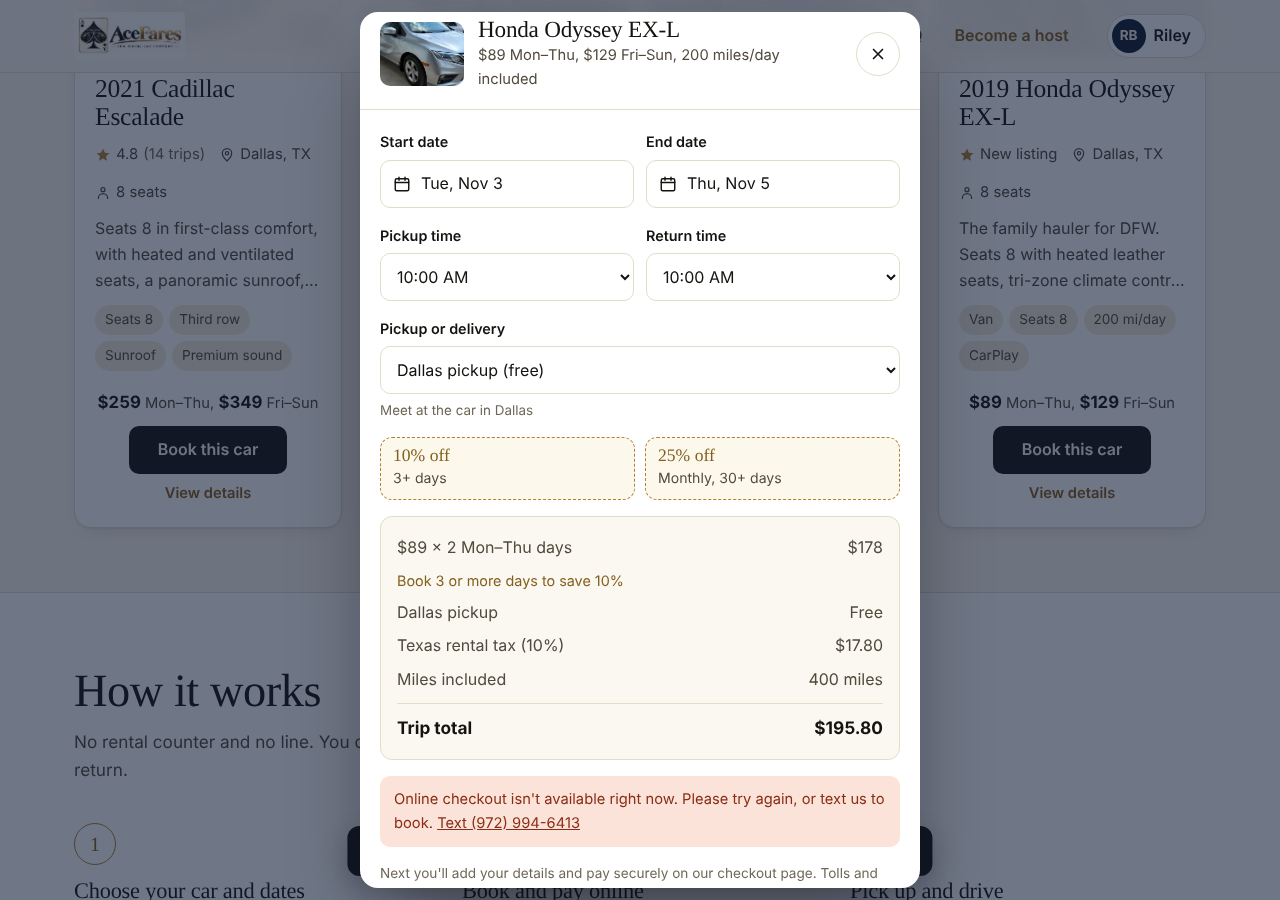
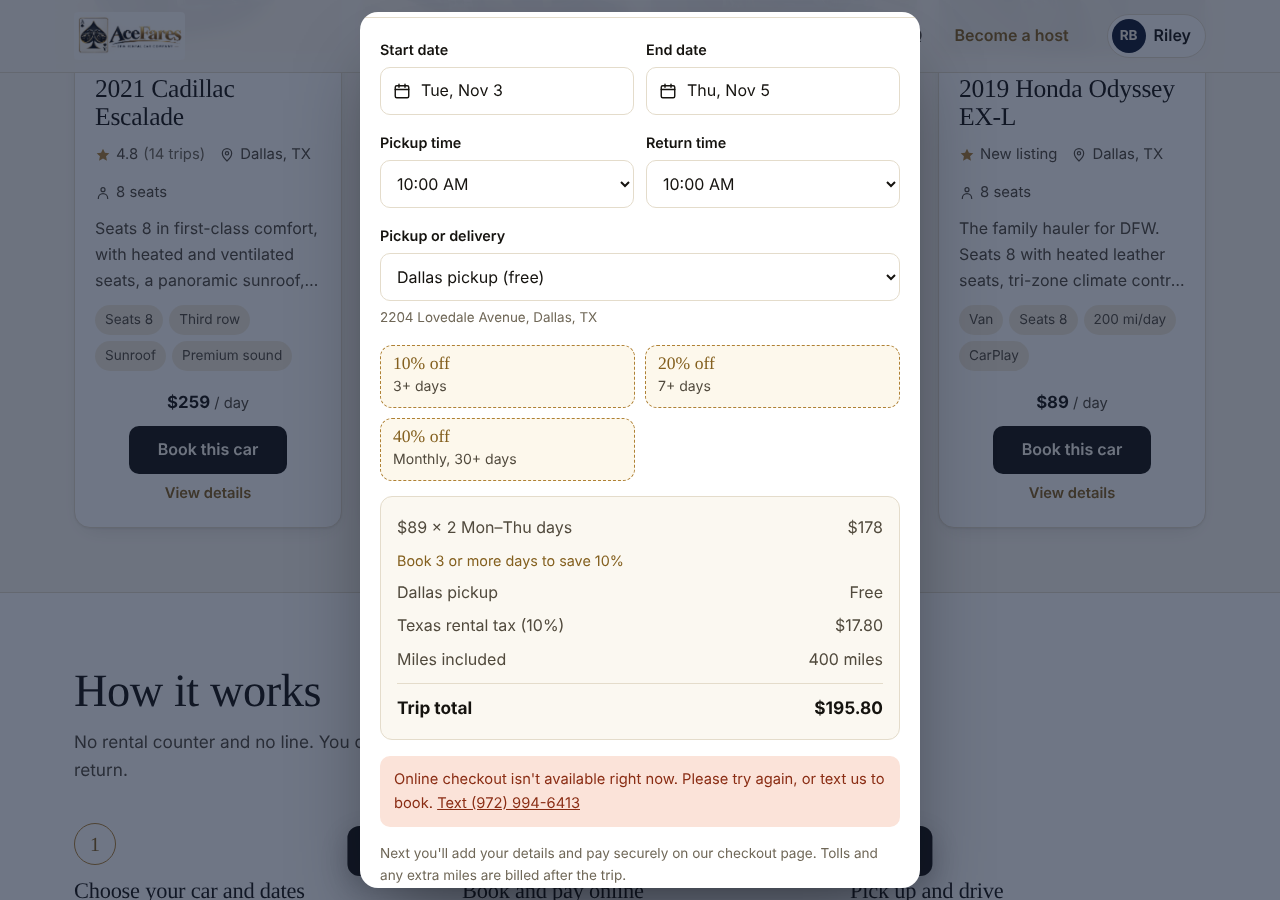
Pickup at 2204 Lovedale Avenue, Dallas; opt out of browser auto-dark mode (color-scheme only light)
Claude-Session: https://claude.ai/code/session_013tTQ2HpLxqD5eMABEcZQQT

diff --git a/public/index.html b/public/index.html
@@ -3,12 +3,13 @@
 <head>
 <meta charset="utf-8">
 <meta name="viewport" content="width=device-width, initial-scale=1">
+<meta name="color-scheme" content="only light">
 <title>Ace Fares Rentals</title>
-<meta name="description" content="Rent a Cadillac Escalade, Cadillac SRX, BMW 650i convertible or Honda Odyssey van direct from the owner in Dallas, Texas. Pickup in McKinney or delivery across DFW.">
+<meta name="description" content="Rent a Cadillac Escalade, Cadillac SRX, BMW 650i convertible or Honda Odyssey van direct from the owner in Dallas, Texas. Pickup in Dallas or delivery across DFW.">
 <meta property="og:type" content="website">
 <meta property="og:site_name" content="Ace Fares Rentals">
 <meta property="og:title" content="Ace Fares Rentals: Dallas car rentals direct from the owner">
-<meta property="og:description" content="Cadillac Escalade, Cadillac SRX, BMW 650i convertible and Honda Odyssey. Pickup in McKinney or delivery across DFW.">
+<meta property="og:description" content="Cadillac Escalade, Cadillac SRX, BMW 650i convertible and Honda Odyssey. Pickup in Dallas or delivery across DFW.">
 <meta property="og:url" content="https://acefaresrental.netlify.app/">
 <meta property="og:image" content="https://acefaresrental.netlify.app/images/share.jpg">
 <meta property="og:image:width" content="1200"><meta property="og:image:height" content="630">
@@ -19,6 +20,7 @@
 <link rel="preconnect" href="https://fonts.gstatic.com" crossorigin>
 <link href="https://fonts.googleapis.com/css2?family=DM+Serif+Display&family=Figtree:wght@400;500;600;700&display=swap" rel="stylesheet">
 <style>
+:root{color-scheme:only light}
 :root{
   --ivory:#FBF8F1; --paper:#FFFFFF; --cream:#F3ECDD; --line:#E4DCCB;
   --ink:#15130F; --ink-2:#514A3D; --ink-3:#6F6757;
@@ -583,7 +585,7 @@ dialog::backdrop{background:rgba(15,26,52,.6)}
         <img src="images/hero.webp" srcset="images/hero-sm.webp 1000w, images/hero.webp 2000w" sizes="100vw" alt="Black Cadillac Escalade parked in a Dallas driveway" width="2000" height="1296" fetchpriority="high">
         <div class="banner-inner">
           <h1 id="hero-title">Drive something worth arriving in.</h1>
-          <p class="sub">Cadillacs, a BMW convertible and a Honda Odyssey van, rented straight from a Dallas owner. Pick up in McKinney, or have the car brought to you.</p>
+          <p class="sub">Cadillacs, a BMW convertible and a Honda Odyssey van, rented straight from a Dallas owner. Pick up in Dallas, or have the car brought to you.</p>
           <form class="search" id="search" novalidate>
             <div class="field">
               <label for="s-loc">Where</label>
@@ -665,7 +667,7 @@ dialog::backdrop{background:rgba(15,26,52,.6)}
     <div class="wrap deliv-grid">
       <div>
         <h2 id="deliv-title">Pickup &amp; delivery</h2>
-        <p class="lede">Pick the car up for free at 362 Virginia Parkway in McKinney, or have us bring it to your home, hotel or office, ready to go.</p>
+        <p class="lede">Pick the car up for free at 2204 Lovedale Avenue in Dallas, or have us bring it to your home, hotel or office, ready to go.</p>
         <p class="areas" id="areas"></p>
         <a class="btn btn-line" href="#fleet" style="margin-top:12px">Choose a car</a>
       </div>
@@ -996,7 +998,7 @@ const SITE = {
 
   // Where renters can get the car. fee: number = flat fee, 0 = free, null = "quoted when we confirm"
   locations: [
-    { id:"dallas-pickup",   name:"McKinney pickup",           note:"362 Virginia Parkway, McKinney, TX",             fee:0,    cars:["srx","escalade","bmw","van"] },
+    { id:"dallas-pickup",   name:"Dallas pickup",             note:"2204 Lovedale Avenue, Dallas, TX",             fee:0,    cars:["srx","escalade","bmw","van"] },
     { id:"dallas-delivery", name:"Delivery",                  note:"We bring the car to your address",      fee:100,  cars:["srx","escalade","bmw","van"] },
   ],
   // Discounts on the rental price (not delivery fees). The biggest one that applies is used.

diff --git a/public/admin.html b/public/admin.html
@@ -3,10 +3,12 @@
 <head>
 <meta charset="utf-8">
 <meta name="viewport" content="width=device-width, initial-scale=1">
+<meta name="color-scheme" content="only light">
 <meta name="robots" content="noindex, nofollow">
 <title>Ace Fares Bookings</title>
 <link rel="icon" href="images/logo.png">
 <style>
+:root{color-scheme:only light}
 :root{--ivory:#FBF8F1;--paper:#fff;--cream:#F3ECDD;--line:#E4DCCB;--ink:#15130F;--ink-2:#514A3D;--ink-3:#6F6757;--gold:#AF8135;--gold-bright:#DAA336;--navy:#0F1A34;--ok:#2F6B3A;--bad:#8A2D14}
 *{box-sizing:border-box}
 body{margin:0;background:var(--ivory);color:var(--ink);font:400 15px/1.5 system-ui,-apple-system,"Segoe UI",sans-serif}
@@ -112,7 +114,7 @@ tr.blocked td{background:#F6F2EA;color:var(--ink-2)}
 </main>
 <script>
 const CARS = { escalade: "Cadillac Escalade", srx: "Cadillac SRX", bmw: "BMW 650i Convertible", van: "Honda Odyssey" };
-const PLACES = { "dallas-pickup": "McKinney pickup", "dallas-delivery": "Delivery", "dfw": "DFW Airport" };
+const PLACES = { "dallas-pickup": "Dallas pickup", "dallas-delivery": "Delivery", "dfw": "DFW Airport" };
 const LABEL = { confirmed: "Paid", hold: "In checkout", conflict: "Paid, dates taken: refund", cancelled: "Cancelled", released: "Checkout abandoned", expired: "Checkout expired" };
 const esc = s => String(s ?? "").replace(/[&<>"']/g, c => ({ "&":"&amp;", "<":"&lt;", ">":"&gt;", '"':"&quot;", "'":"&#39;" }[c]));
 const nice = d => d ? new Date(d + "T12:00").toLocaleDateString("en-US", { weekday: "short", month: "short", day: "numeric", year: "numeric" }) : "";

diff --git a/public/review.html b/public/review.html
@@ -3,6 +3,7 @@
 <head>
 <meta charset="utf-8">
 <meta name="viewport" content="width=device-width, initial-scale=1">
+<meta name="color-scheme" content="only light">
 <meta name="robots" content="noindex">
 <title>Review your trip | Ace Fares Rentals</title>
 <link rel="icon" href="images/logo.png">
@@ -10,6 +11,7 @@
 <link rel="preconnect" href="https://fonts.gstatic.com" crossorigin>
 <link href="https://fonts.googleapis.com/css2?family=DM+Serif+Display&family=Figtree:wght@400;500;600;700&display=swap" rel="stylesheet">
 <style>
+:root{color-scheme:only light}
 :root{
   --ivory:#FBF8F1; --paper:#FFFFFF; --cream:#F3ECDD; --line:#E4DCCB;
   --ink:#15130F; --ink-2:#514A3D; --ink-3:#6F6757;

diff --git a/public/inspect.html b/public/inspect.html
@@ -3,6 +3,7 @@
 <head>
 <meta charset="utf-8">
 <meta name="viewport" content="width=device-width, initial-scale=1">
+<meta name="color-scheme" content="only light">
 <meta name="robots" content="noindex">
 <title>Trip photos | Ace Fares Rentals</title>
 <link rel="icon" href="images/logo.png">
@@ -10,6 +11,7 @@
 <link rel="preconnect" href="https://fonts.gstatic.com" crossorigin>
 <link href="https://fonts.googleapis.com/css2?family=DM+Serif+Display&family=Figtree:wght@400;500;600;700&display=swap" rel="stylesheet">
 <style>
+:root{color-scheme:only light}
 :root{
   --ivory:#FBF8F1; --paper:#FFFFFF; --cream:#F3ECDD; --line:#E4DCCB;
   --ink:#15130F; --ink-2:#514A3D; --ink-3:#6F6757;

diff --git a/public/checkout.html b/public/checkout.html
@@ -3,6 +3,7 @@
 <head>
 <meta charset="utf-8">
 <meta name="viewport" content="width=device-width, initial-scale=1">
+<meta name="color-scheme" content="only light">
 <meta name="robots" content="noindex">
 <title>Checkout | Ace Fares Rentals</title>
 <link rel="icon" href="images/logo.png">
@@ -12,6 +13,7 @@
 <!-- Stripe requires Stripe.js to be loaded from js.stripe.com. Card details are typed into Stripe's secure fields and never touch our server. -->
 <script src="https://js.stripe.com/v3/"></script>
 <style>
+:root{color-scheme:only light}
 :root{
   --ivory:#FBF8F1; --paper:#FFFFFF; --cream:#F3ECDD; --line:#E4DCCB;
   --ink:#15130F; --ink-2:#514A3D; --ink-3:#6F6757;

diff --git a/public/verify.html b/public/verify.html
@@ -3,6 +3,7 @@
 <head>
 <meta charset="utf-8">
 <meta name="viewport" content="width=device-width, initial-scale=1">
+<meta name="color-scheme" content="only light">
 <meta name="robots" content="noindex">
 <title>Verify your license | Ace Fares Rentals</title>
 <link rel="icon" href="images/logo.png">
@@ -12,6 +13,7 @@
 <!-- Stripe Identity: license photos and the selfie go straight to Stripe, never through our server. -->
 <script src="https://js.stripe.com/v3/"></script>
 <style>
+:root{color-scheme:only light}
 :root{
   --ivory:#FBF8F1; --paper:#FFFFFF; --cream:#F3ECDD; --line:#E4DCCB;
   --ink:#15130F; --ink-2:#514A3D; --ink-3:#6F6757;

diff --git a/public/compare.html b/public/compare.html
@@ -3,10 +3,12 @@
 <head>
 <meta charset="utf-8">
 <meta name="viewport" content="width=device-width, initial-scale=1">
+<meta name="color-scheme" content="only light">
 <meta name="robots" content="noindex, nofollow">
 <title>Compare photos | Ace Fares</title>
 <link rel="icon" href="images/logo.png">
 <style>
+:root{color-scheme:only light}
 :root{--ivory:#FBF8F1;--paper:#fff;--cream:#F3ECDD;--line:#E4DCCB;--ink:#15130F;--ink-2:#514A3D;--ink-3:#6F6757;--gold:#AF8135;--gold-bright:#DAA336;--navy:#0F1A34;--bad:#8A2D14;--ok:#2F6B3A}
 *{box-sizing:border-box}
 [hidden]{display:none!important}

diff --git a/public/pay.html b/public/pay.html
@@ -3,10 +3,12 @@
 <head>
 <meta charset="utf-8">
 <meta name="viewport" content="width=device-width, initial-scale=1">
+<meta name="color-scheme" content="only light">
 <meta name="robots" content="noindex">
 <title>Pay a trip charge | Ace Fares Rentals</title>
 <link rel="icon" href="images/logo.png">
 <style>
+:root{color-scheme:only light}
 :root{--ivory:#FBF8F1;--paper:#fff;--cream:#F3ECDD;--line:#E4DCCB;--ink:#15130F;--ink-2:#514A3D;--ink-3:#6F6757;--gold:#AF8135;--gold-bright:#DAA336;--ok:#2F6B3A}
 *{box-sizing:border-box}
 [hidden]{display:none!important}

diff --git a/public/privacy.html b/public/privacy.html
@@ -3,9 +3,11 @@
 <head>
 <meta charset="utf-8">
 <meta name="viewport" content="width=device-width, initial-scale=1">
+<meta name="color-scheme" content="only light">
 <title>Privacy Policy | Ace Fares</title>
 <link rel="icon" href="/images/logo.png">
 <style>
+:root{color-scheme:only light}
 body{margin:0;background:#FBF8F1;color:#15130F;font:16px/1.6 system-ui,-apple-system,"Segoe UI",sans-serif}
 header{background:#0F1A34;padding:14px 20px;display:flex;align-items:center;gap:14px}
 header img{height:40px;background:#FBF8F1;border-radius:6px;padding:3px}
